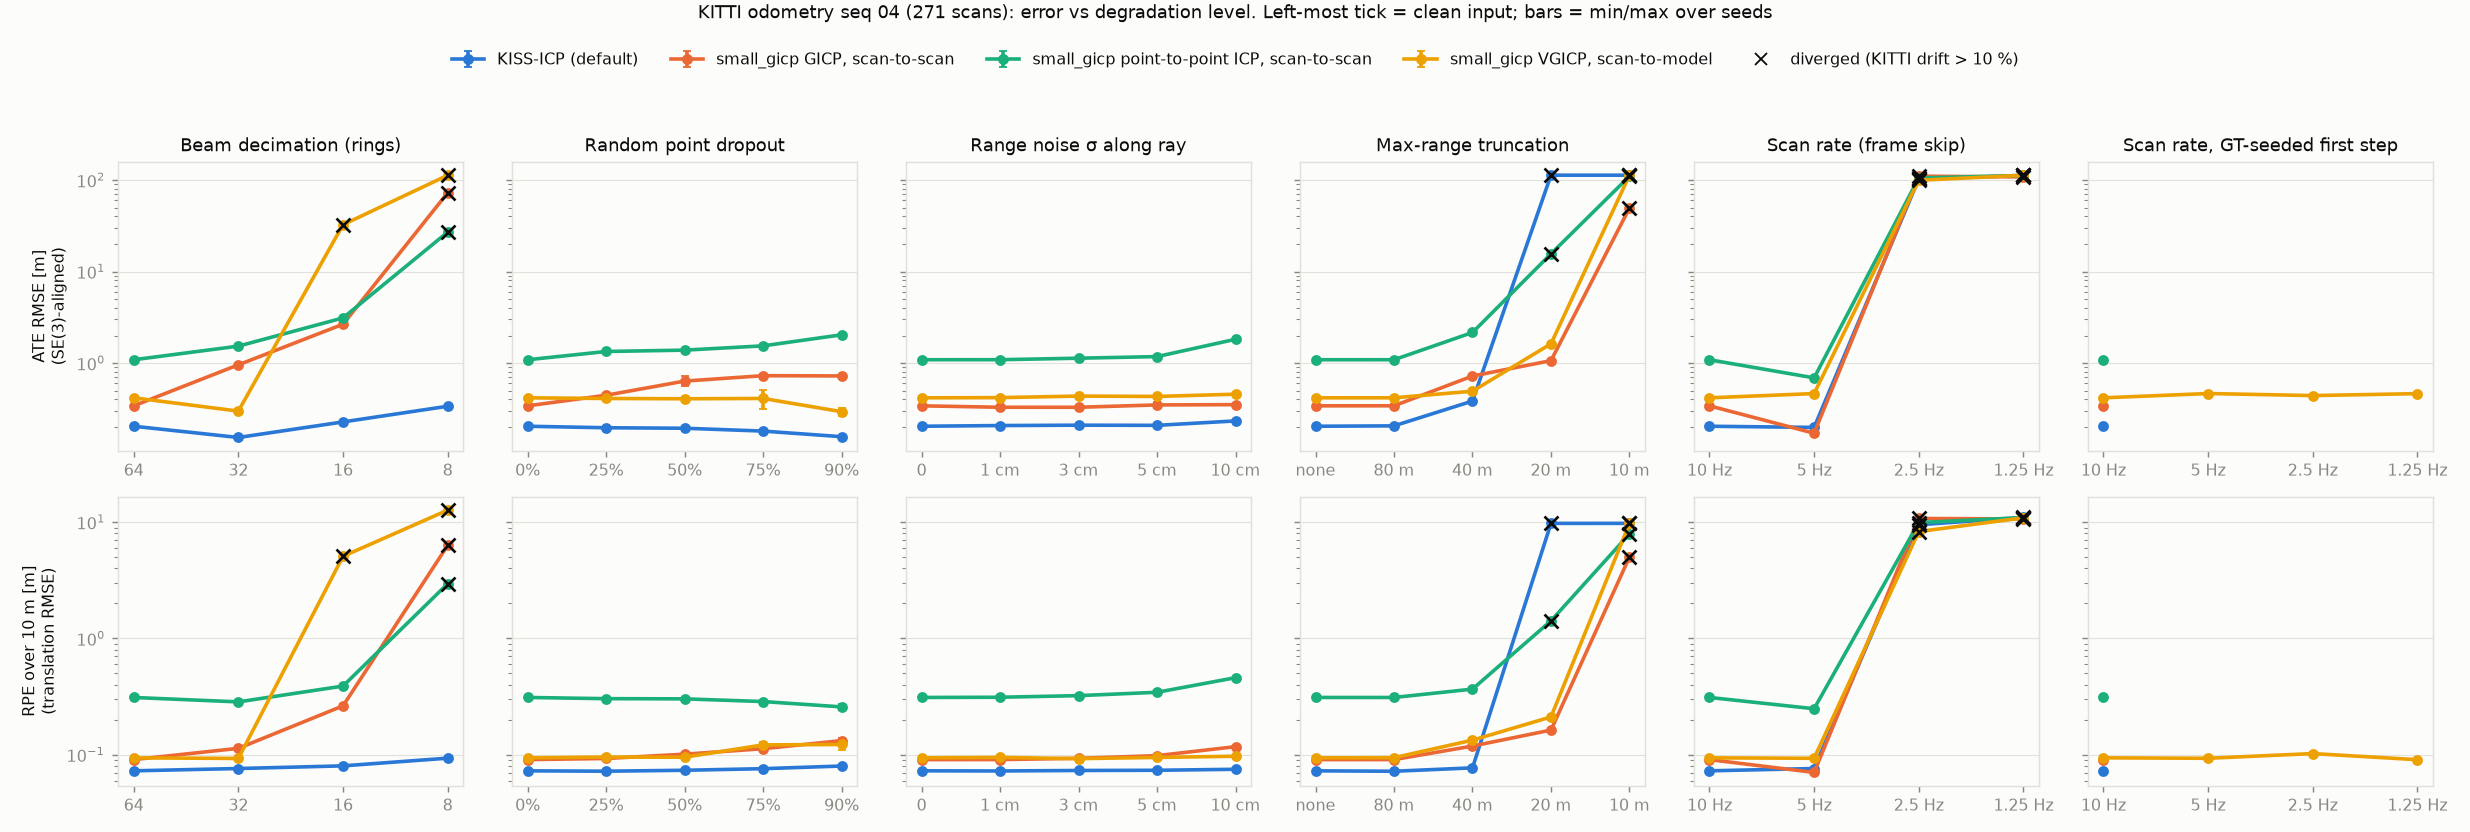
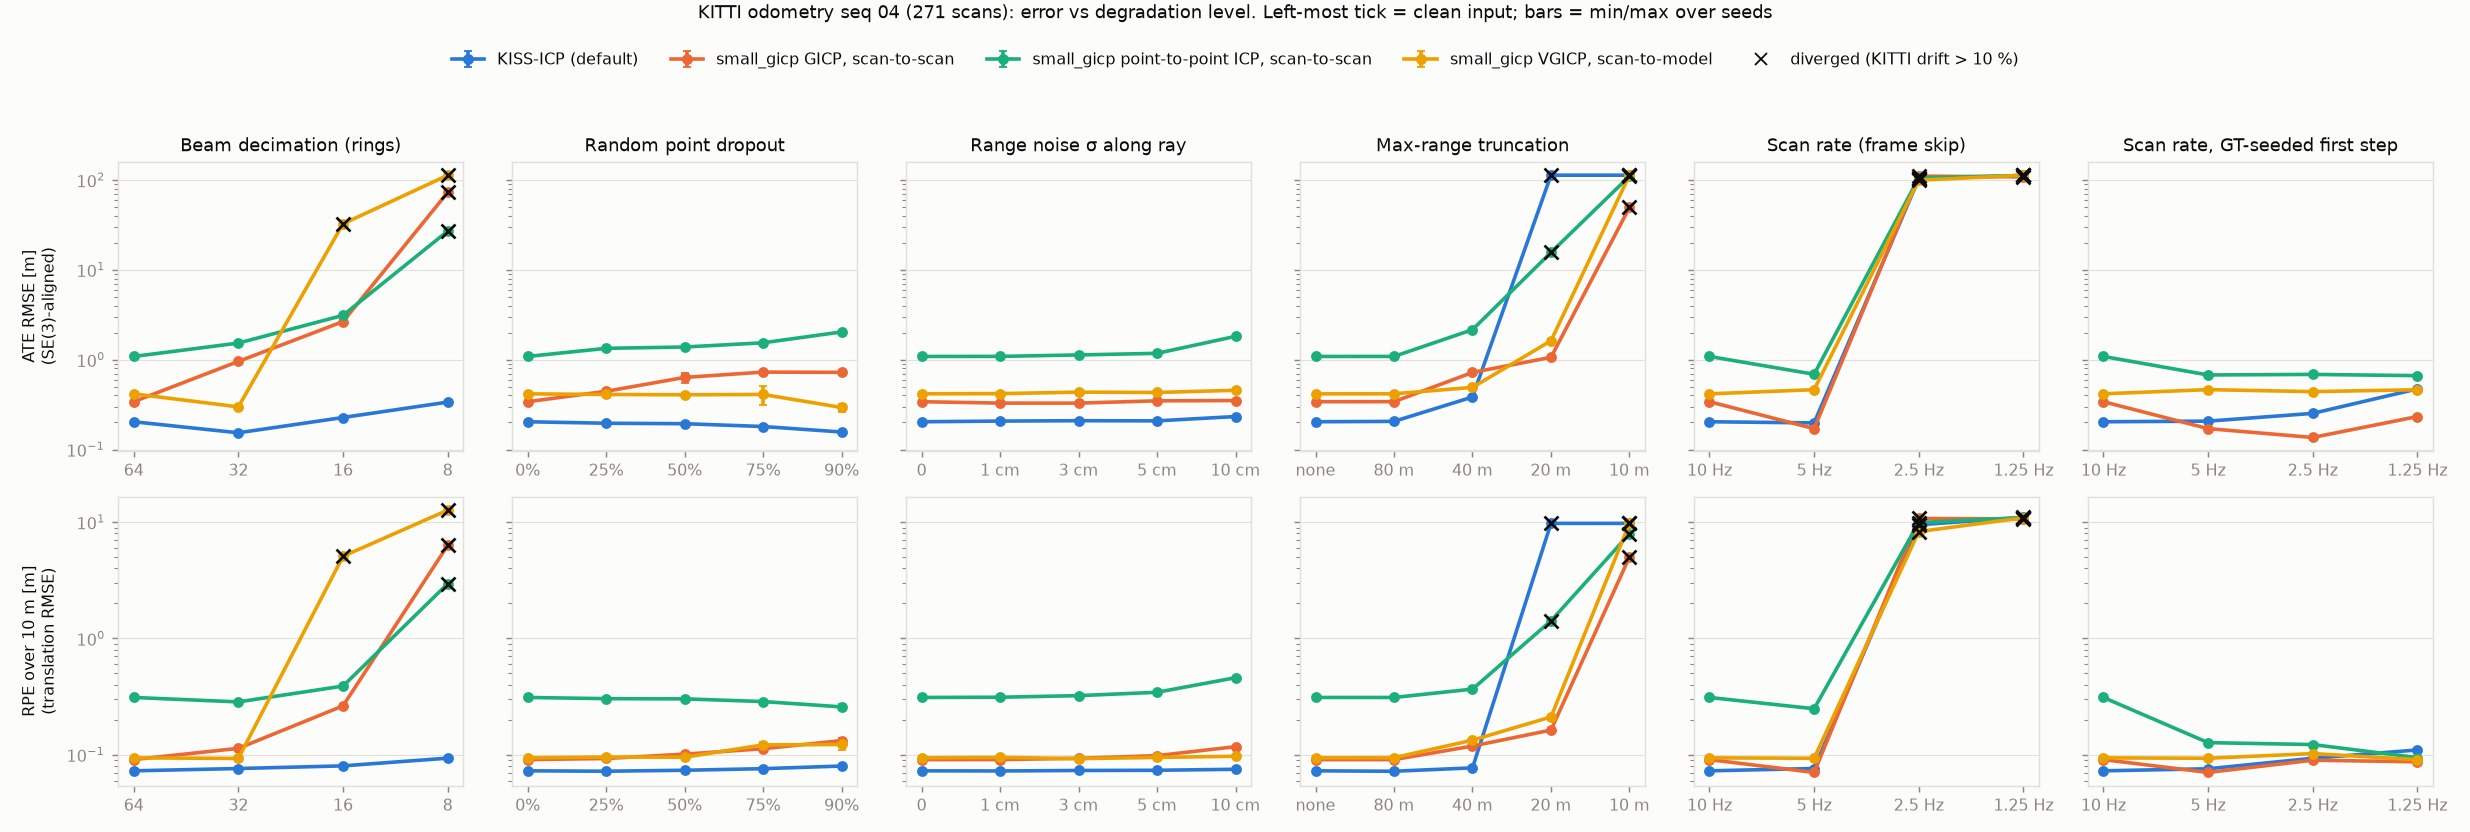
Seed every method's first registration from GT at low scan rates
On seq 04 every method's 2.5 and 1.25 Hz failure is a start-up failure
(seeded drift 0.43-1.38 %); on seq 07 at 1.25 Hz seeding does not help, a
real tracking limit. Seeding KISS-ICP projects the GT rotation onto SO(3)
first: KITTI's rounded poses made its Sophus core abort.

diff --git a/bench.py b/bench.py
@@ -110,7 +110,8 @@ def run_kiss(scans, deskew=False, step=1, seed=None):
         t = 0.5 * (1 - np.arctan2(s[:, 1], s[:, 0]) / np.pi)
         odom.register_frame(s, 0.5 + (t - 0.5) / step if deskew else np.array([]))
         if i == 0 and seed is not None:
-            odom.last_delta = seed
+            U, _, Vt = np.linalg.svd(seed[:3, :3])  # KITTI GT is rounded; Sophus aborts on a non-orthonormal R
+            odom.last_delta = np.block([[U @ Vt, seed[:3, 3:]], [np.zeros((1, 3)), np.ones((1, 1))]])
         yield odom.last_pose.copy(), time.perf_counter() - t0
 
 

diff --git a/README.md b/README.md
@@ -127,13 +127,22 @@ Drift here uses the 100–600 m segments of the 694 m loop. The full table is
 4. **A map does not save sparse rings.**
    - On seq 04, VGICP breaks at 16 rings (26.7 %), while scan-to-scan GICP held there.
    - On seq 07, VGICP breaks at 8 rings (17.9 %), while scan-to-scan GICP held at 4.17 %.
-5. **Some low-rate failures happen at start-up.** Seeding VGICP's first
-   registration from ground truth changes:
-   - seq 04 at 2.5 Hz: 89.3 % → 0.53 %
-   - seq 04 at 1.25 Hz: 107 % → 0.60 %
-   - So on seq 04 the constant-velocity guess from rest is what fails, not tracking.
-   - On seq 07 at 1.25 Hz, seeding does not help (60.4 % → 61.4 %). That one is a
-     real tracking limit.
+5. **On seq 04 the low-rate failures are start-up failures; on seq 07 at 1.25 Hz the limit is real.**
+   Every method was re-run with its first registration seeded from the ground-truth motion
+   (KITTI drift, zero-motion start → seeded):
+
+   | Seq, rate | KISS-ICP | GICP | P2P ICP | VGICP |
+   |---|---|---|---|---|
+   | 04, 2.5 Hz | 92.9 → 0.52 % | 99.6 → 0.43 % | 95.3 → 1.25 % | 89.3 → 0.53 % |
+   | 04, 1.25 Hz | 108 → 0.74 % | 103 → 0.48 % | 108 → 1.38 % | 107 → 0.60 % |
+   | 07, 1.25 Hz | 10.4 → 31.8 % | 8.96 → 8.96 % | 40.4 → 39.8 % | 60.4 → 61.4 % |
+
+   - On the straight seq 04, a good first guess is all any method needs, even with
+     about 12 m between scans at 1.25 Hz.
+   - On seq 07 at 1.25 Hz (about 5 m between scans, with turns), seeding does not help,
+     and KISS-ICP even gets worse in this one-seed run. That is a real tracking limit.
+   - Seeding KISS-ICP needs the ground-truth rotation projected back onto SO(3): KITTI's
+     rounded poses are not exactly orthonormal, and its C++ core (Sophus) aborts on them.
 
 ## Method
 
@@ -247,9 +256,8 @@ The kiss-icp README lists no KITTI numbers to compare against.
 - **The first scan pair at low rate has no motion prior.** Every method starts
   from identity, so on sequence 04 at 2.5 Hz the first registration must close
   about 5.8 m from a zero guess (about 12 m at 1.25 Hz). The round 2
-  GT-seeded runs separate start-up failures from tracking limits for VGICP
-  (see [Round 2 checks](#round-2-checks-oct-12)); the other methods were not
-  re-run seeded.
+  GT-seeded runs separate start-up failures from tracking limits for every
+  method (see [Round 2 checks](#round-2-checks-oct-12)), with one seed each.
 - **Defaults, not tuned systems.** No method was re-tuned per degradation,
   apart from the range-matched KISS-ICP check in round 2. Round 2's
   scan-to-model VGICP separates map vs. no map from the cost function; a GICP
